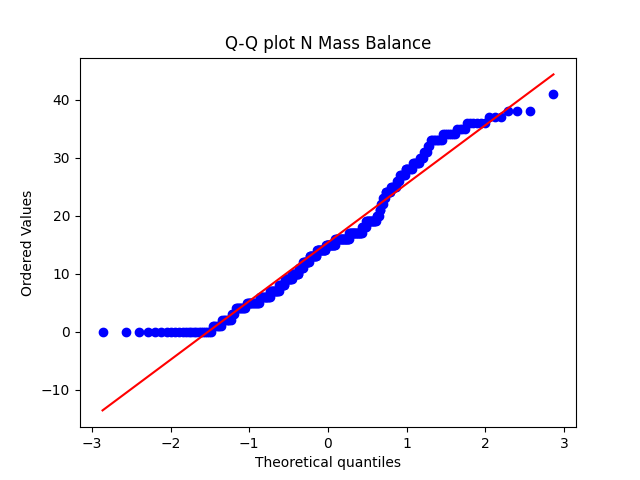
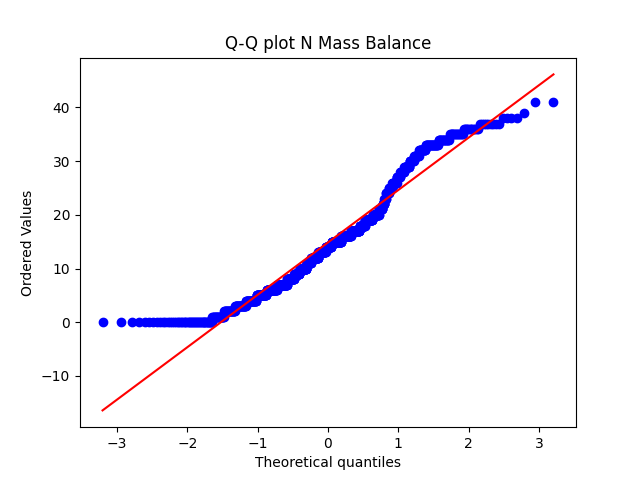
Optimise N is the way to go

diff --git a/Functions.py b/Functions.py
@@ -52,9 +52,9 @@ def hold_out(dates, m=15, dt=15 * 60, plot=False, use_adjacent=True, filename_pa
               f'{parameters[0, 1] * dt} * C_out({parameters[0, 2]}) +\n'
               f'n*{dt * parameters[0, 3]}/V')
         print(f'Coefficients for N:\n'
-              f'({(1 - dt * sum(parameters[0, :2]))} * C_(i-1) +\n'
-              f'{parameters[0, 0] * dt} * C_adj +\n'
-              f'{parameters[0, 1] * dt} * C_out({parameters[0, 2]}))*V +\n'
+              f'(C - {(1 - dt * sum(parameters[0, :2]))} * C_(i-1) -\n'
+              f'{parameters[0, 0] * dt} * C_adj -\n'
+              f'{parameters[0, 1] * dt} * C_out({parameters[0, 2]}))*V\n'
               f'/{dt * parameters[0, 3]}')
         max_N = get_max_N(temp_N)
         zone_id = 0
@@ -70,7 +70,7 @@ def hold_out(dates, m=15, dt=15 * 60, plot=False, use_adjacent=True, filename_pa
                 error_c = error_fraction([C[1:]], C_est)
                 error_n = error_fraction([N[1:]], N_est)
 
-                E_list[zone_id].append([error_c[-1], error_n[-1]])  # only list of errors
+                E_list[zone_id].append([error_c[2], error_n[2]])  # only list of errors
                 E_summary_list[zone_id].append([error_c[:2], error_n[:2]])
                 param_id += 1
                 if plot:
@@ -172,7 +172,7 @@ def simple_models_hold_out(dates, dt=15 * 60, method='l', plot=False, plot_scatt
             if plot:
                 plot_estimates(C=[C_test], C_est=[C_est], N=[N_test], N_est=[N_est], dt=dt, zone_id=zone_id,
                                error_c=error_c[:2], error_n=error_n[:2], start_time=start_time, title='Lin Reg')
-            E_list[zone_id].append([error_c[-1], error_n[-1]])
+            E_list[zone_id].append([error_c[2], error_n[2]])
 
     return E_list
 
@@ -435,24 +435,52 @@ def kalman_estimates(C, min_error=50, error_proportion=0.03):
 
 def residual_analysis(dd_list, N_list, E_list, E_list_reg, filepath_plots='documents/plots/', plot=True):
     all_co2, all_N, errors_co2, errors_N = [], [], [], []
-    for device, device_N, device_errors in zip(dd_list, N_list, E_list):
-        for period, period_N, period_errors in zip(device, device_N, device_errors):
-            for co2, n, error_co2, error_N in zip(np.array(period)[:, 1], period_N, period_errors[0], period_errors[1]):
+    errors_co2_reg, errors_N_reg = [], []
+    # errors by device (EBD) dimension 0 -> device, dimension 1 -> mean,std
+    EBD_N, EBD_co2 = [[] for _ in dd_list], [[] for _ in dd_list]
+    EBD_N_reg, EBD_co2_reg = [[] for _ in dd_list], [[] for _ in dd_list]
+    detected,  detected_reg = [[] for _ in dd_list], [[] for _ in dd_list]
+
+    dev_id = 0
+    for device, device_N, device_errors, device_errors_reg in zip(dd_list, N_list, E_list, E_list_reg):
+        for period, period_N, period_errors, period_errors_reg in zip(device, device_N, device_errors, device_errors_reg):
+            for co2, n, error_co2, error_N, error_co2_reg, error_N_reg in zip(np.array(period)[:, 1], period_N, period_errors[0], period_errors[1], period_errors_reg[0][1:], period_errors_reg[1][1:]):
                 all_co2.append(co2)
                 all_N.append(n)
-                errors_co2.append(error_co2)
-                errors_N.append(error_N)
+                errors_co2.append(abs(error_co2))
+                errors_N.append(abs(error_N))
+                EBD_co2[dev_id].append(abs(error_co2))
+                EBD_N[dev_id].append(abs(error_N))
+                detected[dev_id].append(bool(n) and bool(n + error_N))
 
-    errors_co2_reg, errors_N_reg = [], []
-    for device_errors in E_list_reg:
-        for period in device_errors:
-            skip = True
-            for error_co2, error_N in zip(period[0], period[1]):
-                if not skip:
-                    errors_co2_reg.append(error_co2)
-                    errors_N_reg.append(error_N)
-                else:
-                    skip = False
+                errors_co2_reg.append(abs(error_co2_reg))
+                errors_N_reg.append(abs(error_N_reg))
+                EBD_N_reg[dev_id].append(abs(error_N_reg))
+                EBD_co2_reg[dev_id].append(abs(error_co2_reg))
+                detected_reg[dev_id].append(bool(n) and bool(n + error_N_reg))
+
+        if N_list[dev_id][0] and dd_list[dev_id][0]:
+            detected[dev_id] = sum(detected[dev_id])/len(detected[dev_id])
+            detected_reg[dev_id] = sum(detected_reg[dev_id])/len(detected_reg[dev_id])
+            print('\nFor MB:\n')
+            temp = pd.Series(EBD_N[dev_id])
+            print(f'N error summary for zone {dev_id}:\n'
+                  f'{temp.describe()}')
+            EBD_N[dev_id] = [np.mean(EBD_N[dev_id]), np.std(EBD_N[dev_id])]
+            temp = pd.Series(EBD_co2[dev_id])
+            print(f'CO2 error summary for zone {dev_id}:\n'
+                  f'{temp.describe()}')
+            EBD_co2[dev_id] = [np.mean(EBD_co2[dev_id]), np.std(EBD_co2[dev_id])]
+            print('\nFor Reg:\n')
+            temp = pd.Series(EBD_N_reg[dev_id])
+            print(f'N error summary for zone {dev_id}:\n'
+                  f'{temp.describe()}')
+            EBD_N_reg[dev_id] = [np.mean(EBD_N_reg[dev_id]), np.std(EBD_N_reg[dev_id])]
+            temp = pd.Series(EBD_co2_reg[dev_id])
+            print(f'CO2 error summary for zone {dev_id}:\n'
+                  f'{temp.describe()}')
+            EBD_co2_reg[dev_id] = [np.mean(EBD_co2_reg[dev_id]), np.std(EBD_co2_reg[dev_id])]
+        dev_id += 1
 
     if plot:
         plt.scatter(all_co2, errors_co2, marker='.')
@@ -518,6 +546,8 @@ def residual_analysis(dd_list, N_list, E_list, E_list_reg, filepath_plots='docum
     print(temp.describe())
     wilcox = wilcoxon(all_co2, errors_co2_reg)
     print(f'P-values for wilcox rank sum test {wilcox.pvalue}')
+
+    return EBD_N, EBD_co2, detected, EBD_N_reg, EBD_co2_reg, detected_reg
 
 
 def plot_estimates(C, C_est, N, N_est, dt, zone_id=None, start_time=None, error_c=None, error_n=None, title=''):
@@ -734,8 +764,8 @@ def N_estimate(x, C, C_adj, V, dt=15 * 60, m=15, d=0, max_n=50):
                       Q_adj * dt * C_adj -
                       Q_out * dt * C_out) / (dt * m), dtype=float)
 
-    # At least 0 people, at most max_n
-    N = [min(n, max_n) if n > 0 else 0 for n in N]
+    # At least 0 people ignore max_n
+    # N = [n if n > 0 else 0 for n in N]
     return np.round(N, d)
 
 
@@ -765,9 +795,9 @@ def error_fraction(true_values, estimated_values, d=2):
                 T = T[1:]
         for t, e in zip(T, E):
             n_false += not t == e
-            error_list.append(abs(t - e))
+            error_list.append(t - e)
             n_total += 1
-    return np.round(n_false / n_total, d), np.round(sum(error_list) / n_total, d), error_list
+    return np.round(n_false / n_total, d), np.round(sum(np.abs(error_list)) / n_total, d), error_list
 
 
 def optimise_occupancy(dd_list, N_list, m=15, dt=15 * 60, optimise_N=False, bounds=None,

diff --git a/Optimise.py b/Optimise.py
@@ -6,14 +6,14 @@ from Functions import simple_models_hold_out, hold_out, adjacent_co2, residual_a
     load_data, load_occupancy, load_lists, plot_estimates, optimise_occupancy, N_estimate, C_estimate
 
 dates = ['2022_24_11', '2022_30_11', '2022_07_12', '2022_09_12', '2022_14_12', '2023_18_01']
-# dates = ['2022_24_11', '2022_30_11']
+# dates = dates[:2]
 
 # hold-out method:
 error_file = 'parameters/e.txt'
-dd_list, N_list, E_list = hold_out(dates[:2], plot=True, filename_parameters='testing', optimise_N=0,
+dd_list, N_list, E_list = hold_out(dates, plot=True, filename_parameters='testing_n', optimise_N=1,
                                    summary_errors=error_file)
-# E_list_reg = simple_models_hold_out(dates[:2], dt=15 * 60, method='l', plot=True, plot_scatter=0)
+E_list_reg = simple_models_hold_out(dates, dt=15 * 60, method='l', plot=True, plot_scatter=0)
 
-# residual_analysis(dd_list, N_list, E_list, E_list_reg, plot=False)
+residual_analysis(dd_list, N_list, E_list, E_list_reg, plot=False)
 
 

diff --git a/constants.py b/constants.py
@@ -13,7 +13,7 @@ n_map = {0: [], 1: [2, 10], 2: [1, 3], 3: [2, 4], 4: [2, 5], 5: [4, 6], 6: [5, 7
          }
 ppm_factor = 1_000_000
 #         Q_adj        Q_out    C_out        m in m^3/s
-bounds = ((0, 1), (0, 1), (300/ppm_factor, 500/ppm_factor), (1.0e-50, 0.0001))
+bounds = ((0, 1), (0, 1), (300/ppm_factor, 500/ppm_factor), (1.0e-7, 1.0e-5))
 # V in m^3:
 V = np.array([0, 0, 0, 0, 0, 0, 0, 0, 0, 0, 0, 0, 0, 0, 0, 0, 0, 0, 0, 0, 0,
               11.5 * 14.6, 10.2 * 11.5, 8.8 * 14.2, 8.8 * 14.8, 9.2 * 11.3, 15.5 * 11.6, 4.8 * 28]) * 3 #* 1000
